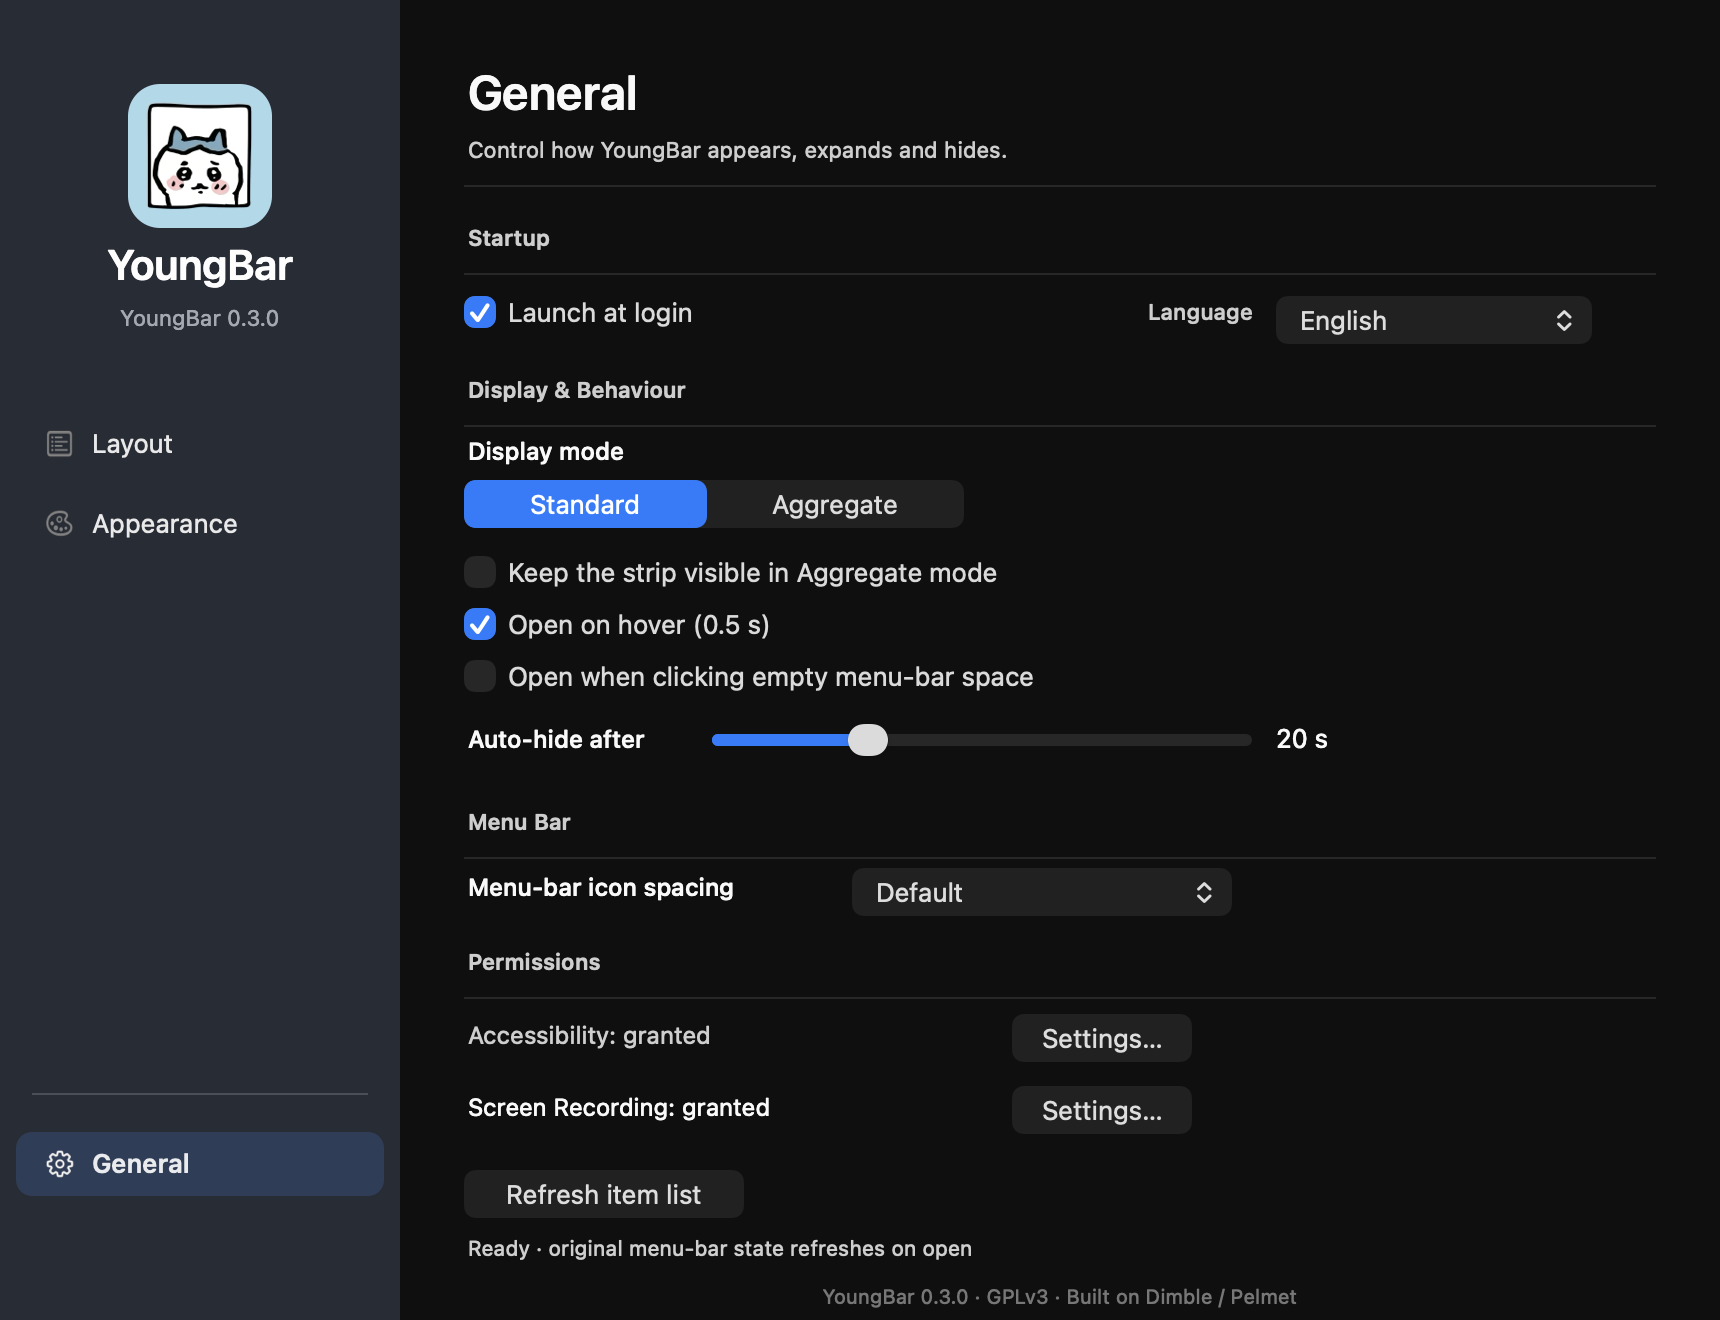
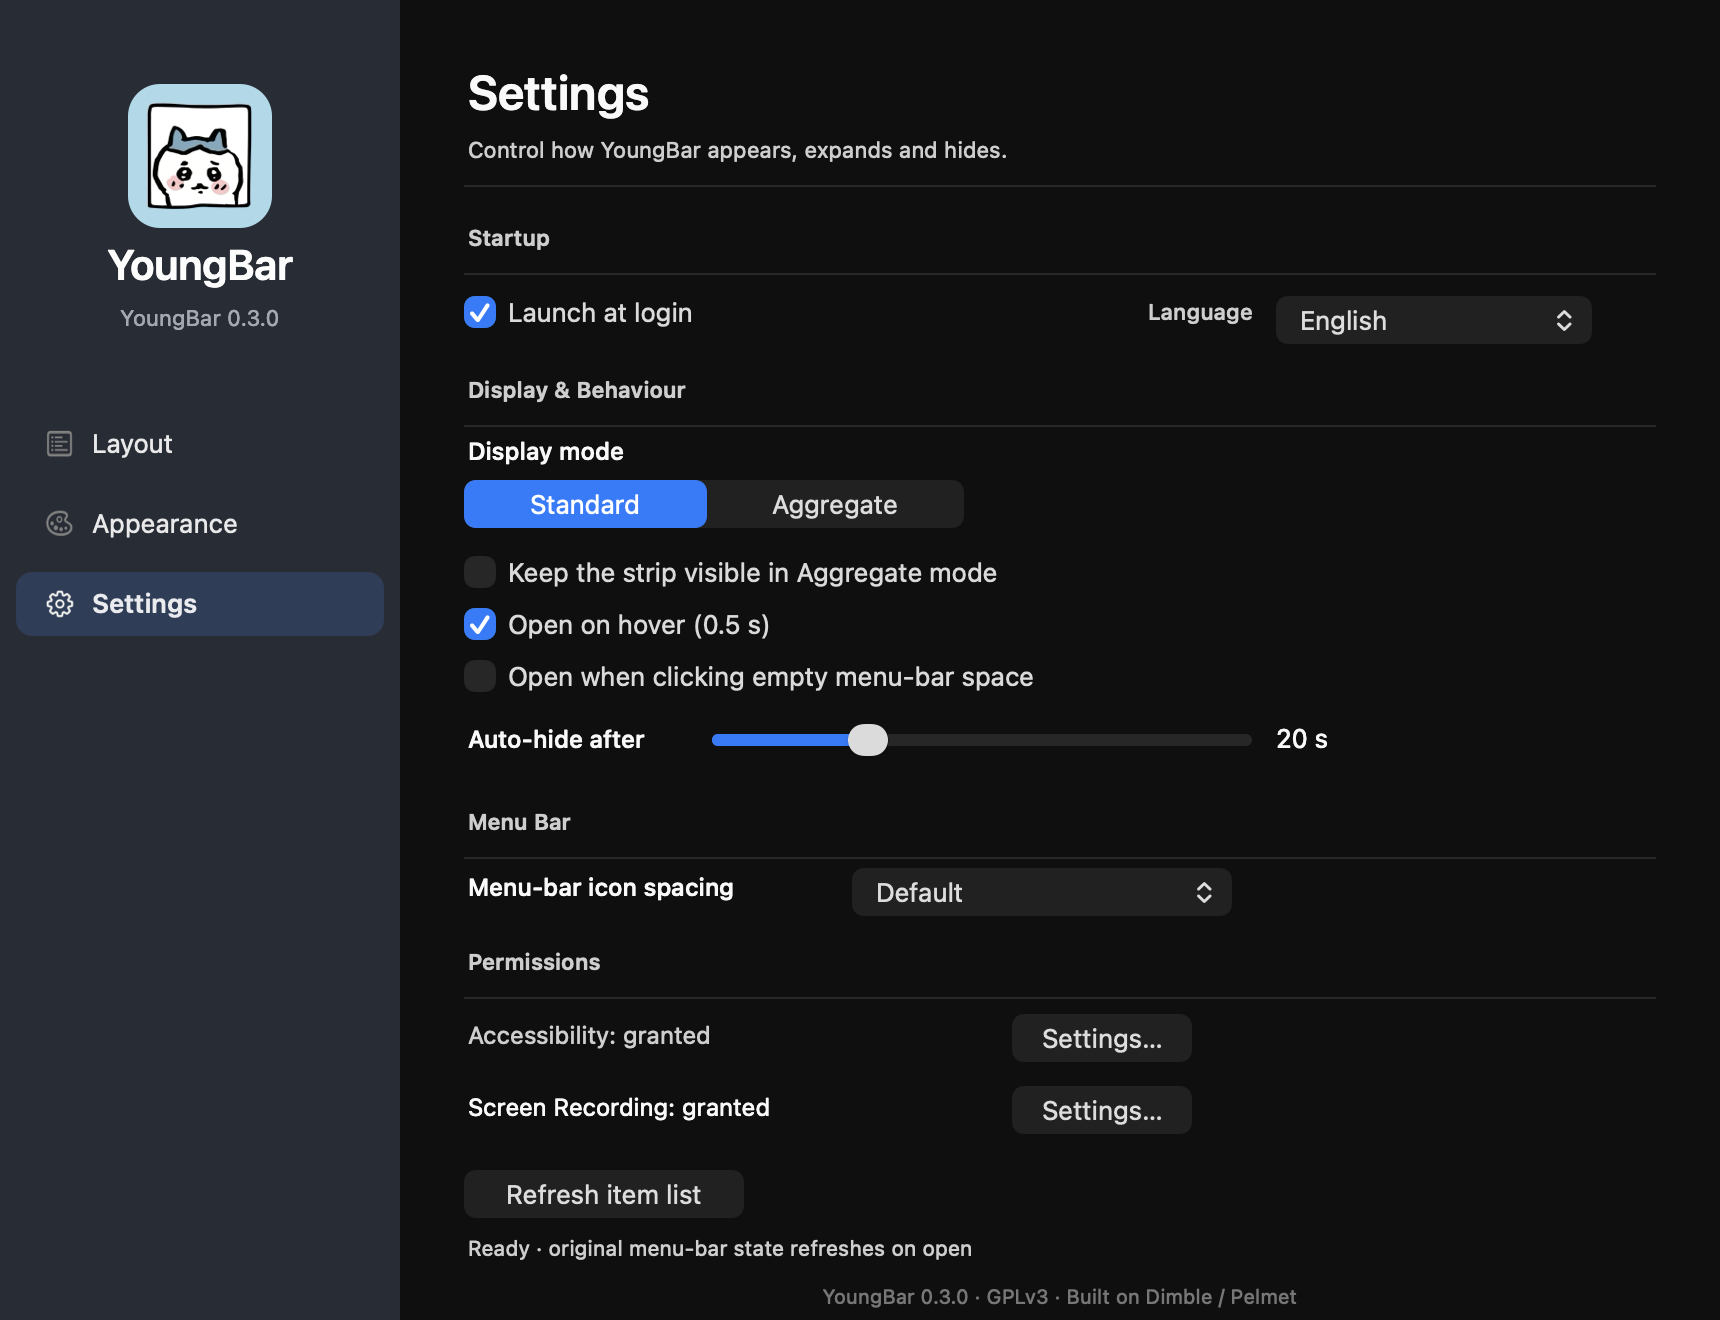
fix(youngbar): 预览符号方向/比例与导航命名
- respectFlipped 修正 Wi-Fi 上下颠倒，按原始宽高比修正电池压缩
- 侧栏改为 布局/外观/设置，设置紧跟外观，不再单独分隔
- 更新中英文截图与第 140 轮日志

Changed region(s): [[0.0, 0.8386, 0.2465, 0.9318], [0.0, 0.4348, 0.2465, 0.497], [0.2773, 0.0621, 0.4006, 0.0932]]

diff --git a/Sources/YoungBar/BarSettings.swift b/Sources/YoungBar/BarSettings.swift
@@ -139,23 +139,18 @@ final class BarSettings: NSObject, NSTableViewDataSource, NSTableViewDelegate {
         subtitle.textColor = .secondaryLabelColor
         sidebar.addSubview(subtitle)
 
-        for (index, item) in [("layout", L10n.t("菜单栏布局", "Layout"), "list.bullet.rectangle"),
+        for (index, item) in [("layout", L10n.t("布局", "Layout"), "list.bullet.rectangle"),
                               ("appearance", L10n.t("外观", "Appearance"), "paintpalette"),
-                              ("general", L10n.t("通用设置", "General"), "gearshape")].enumerated() {
+                              ("general", L10n.t("设置", "Settings"), "gearshape")].enumerated() {
             let button = SidebarButton(title: "", target: self, action: #selector(navigate(_:)))
             button.identifier = .init(item.0)
             button.labelText = item.1
             button.symbolName = item.2
-            let y: CGFloat = item.0 == "general" ? 60 : 420 - CGFloat(index) * 40
-            button.frame = NSRect(x: 0, y: y, width: 200, height: 36)
+            button.frame = NSRect(x: 0, y: 420 - CGFloat(index) * 40, width: 200, height: 36)
             button.isBordered = false
             sidebar.addSubview(button)
             navButtons[item.0] = button
         }
-
-        let sidebarLine = NSBox(frame: NSRect(x: 16, y: 112, width: 168, height: 1))
-        sidebarLine.boxType = .separator
-        sidebar.addSubview(sidebarLine)
 
         let content = NSView(frame: NSRect(x: 200, y: 0, width: 660, height: 692))
         content.wantsLayer = true
@@ -175,7 +170,7 @@ final class BarSettings: NSObject, NSTableViewDataSource, NSTableViewDelegate {
     }
 
     private func buildGeneralPage() {
-        addHeader(to: generalPage, title: L10n.t("通用设置", "General"),
+        addHeader(to: generalPage, title: L10n.t("设置", "Settings"),
                   subtitle: L10n.t("控制 YoungBar 如何显示、展开与自动收起。",
                                    "Control how YoungBar appears, expands and hides."))
 

diff --git a/Sources/YoungBar/Theme.swift b/Sources/YoungBar/Theme.swift
@@ -154,21 +154,26 @@ final class ThemePreviewView: NSView {
 
         let symbolColor: NSColor = (color == .clear && !isDark) || color.isLightStrip ? .black : .white
 
-        func drawSymbol(_ name: String, x: CGFloat, size: CGFloat = 15) {
-            guard let image = NSImage(systemSymbolName: name, accessibilityDescription: nil) else { return }
-            let scaled = image.withSymbolConfiguration(.init(pointSize: size, weight: .regular)) ?? image
-            let tinted = tintedImage(scaled, color: symbolColor)
-            tinted.draw(in: NSRect(x: x, y: rect.midY - size / 2, width: size, height: size),
-                        from: .zero, operation: .sourceOver, fraction: 0.95)
+        func drawSymbol(_ name: String, x: CGFloat, height: CGFloat = 14) -> CGFloat {
+            guard let image = NSImage(systemSymbolName: name, accessibilityDescription: nil)?
+                .withSymbolConfiguration(.init(pointSize: 13, weight: .regular)) else { return 0 }
+            let ratio = image.size.height > 0 ? image.size.width / image.size.height : 1
+            let width = height * ratio
+            let tinted = tintedImage(image, color: symbolColor)
+            tinted.draw(in: NSRect(x: x, y: rect.midY - height / 2, width: width, height: height),
+                        from: .zero, operation: .sourceOver, fraction: 0.95,
+                        respectFlipped: true, hints: nil)
+            return width
         }
 
-        drawSymbol("wifi", x: 14)
-        drawSymbol("battery.75percent", x: 34)
-        drawSymbol("clock", x: 54)
+        var cursor: CGFloat = 14
+        for name in ["wifi", "battery.75percent", "clock"] {
+            cursor += drawSymbol(name, x: cursor) + 10
+        }
 
         symbolColor.withAlphaComponent(0.18).setFill()
         NSRect(x: rect.maxX - 42, y: 9, width: 1, height: rect.height - 18).fill()
-        drawSymbol("gearshape", x: rect.maxX - 31, size: 16)
+        _ = drawSymbol("gearshape", x: rect.maxX - 31, height: 15)
     }
 }
 

diff --git a/docs/STATUS.md b/docs/STATUS.md
@@ -45,7 +45,7 @@
 | 卡片式布局 | ✅ 每条独立圆角行，整行可拖，无表头/边框 |
 | 一页布局 | ✅ 行高按项目数自动压缩，12 项一屏放下 | `docs/images/settings-layout.png` | `docs/images/settings-layout.png` |
 | 布局顺序校准 | ✅ 新项按真实 x 插入；可见项每次刷新校准并持久化 | `itemOrder` 以有道翻译开头；`docs/images/settings-layout.png` |
-| 外观主题 | ✅ 深/浅/跟随系统 + 4 主题（蓝/粉/黄/透明）+ 3 种收纳条；预览使用真实 SF Symbols | `docs/images/appearance-zh.png`、`appearance-en.png` |
+| 外观主题 | ✅ 深/浅/跟随系统 + 4 主题（蓝/粉/黄/透明）+ 3 种收纳条；预览用真实符号并按原始宽高比绘制 | `docs/images/appearance-zh.png`、`appearance-en.png` |
 | 语言 | ✅ 中文 / English，设置内切换并重建设置窗口 | `docs/images/general-en.png` |
 | 主题图标 | ✅ 蓝猫 / 粉羊 / 黄兔 / 透明三小只随主题切换（侧栏、关于） | `appearance-{blue,pink,yellow}.png` |
 | 主题应用范围 | ✅ 界面 + 收纳条 / 仅界面 / 仅收纳条 | `docs/images/appearance-zh.png` |
@@ -77,7 +77,7 @@
 
 ## 4. 界面
 
-![通用设置（中文）](images/general-zh.png)
+![设置（中文）](images/general-zh.png)
 
 ![General（English）](images/general-en.png)
 
